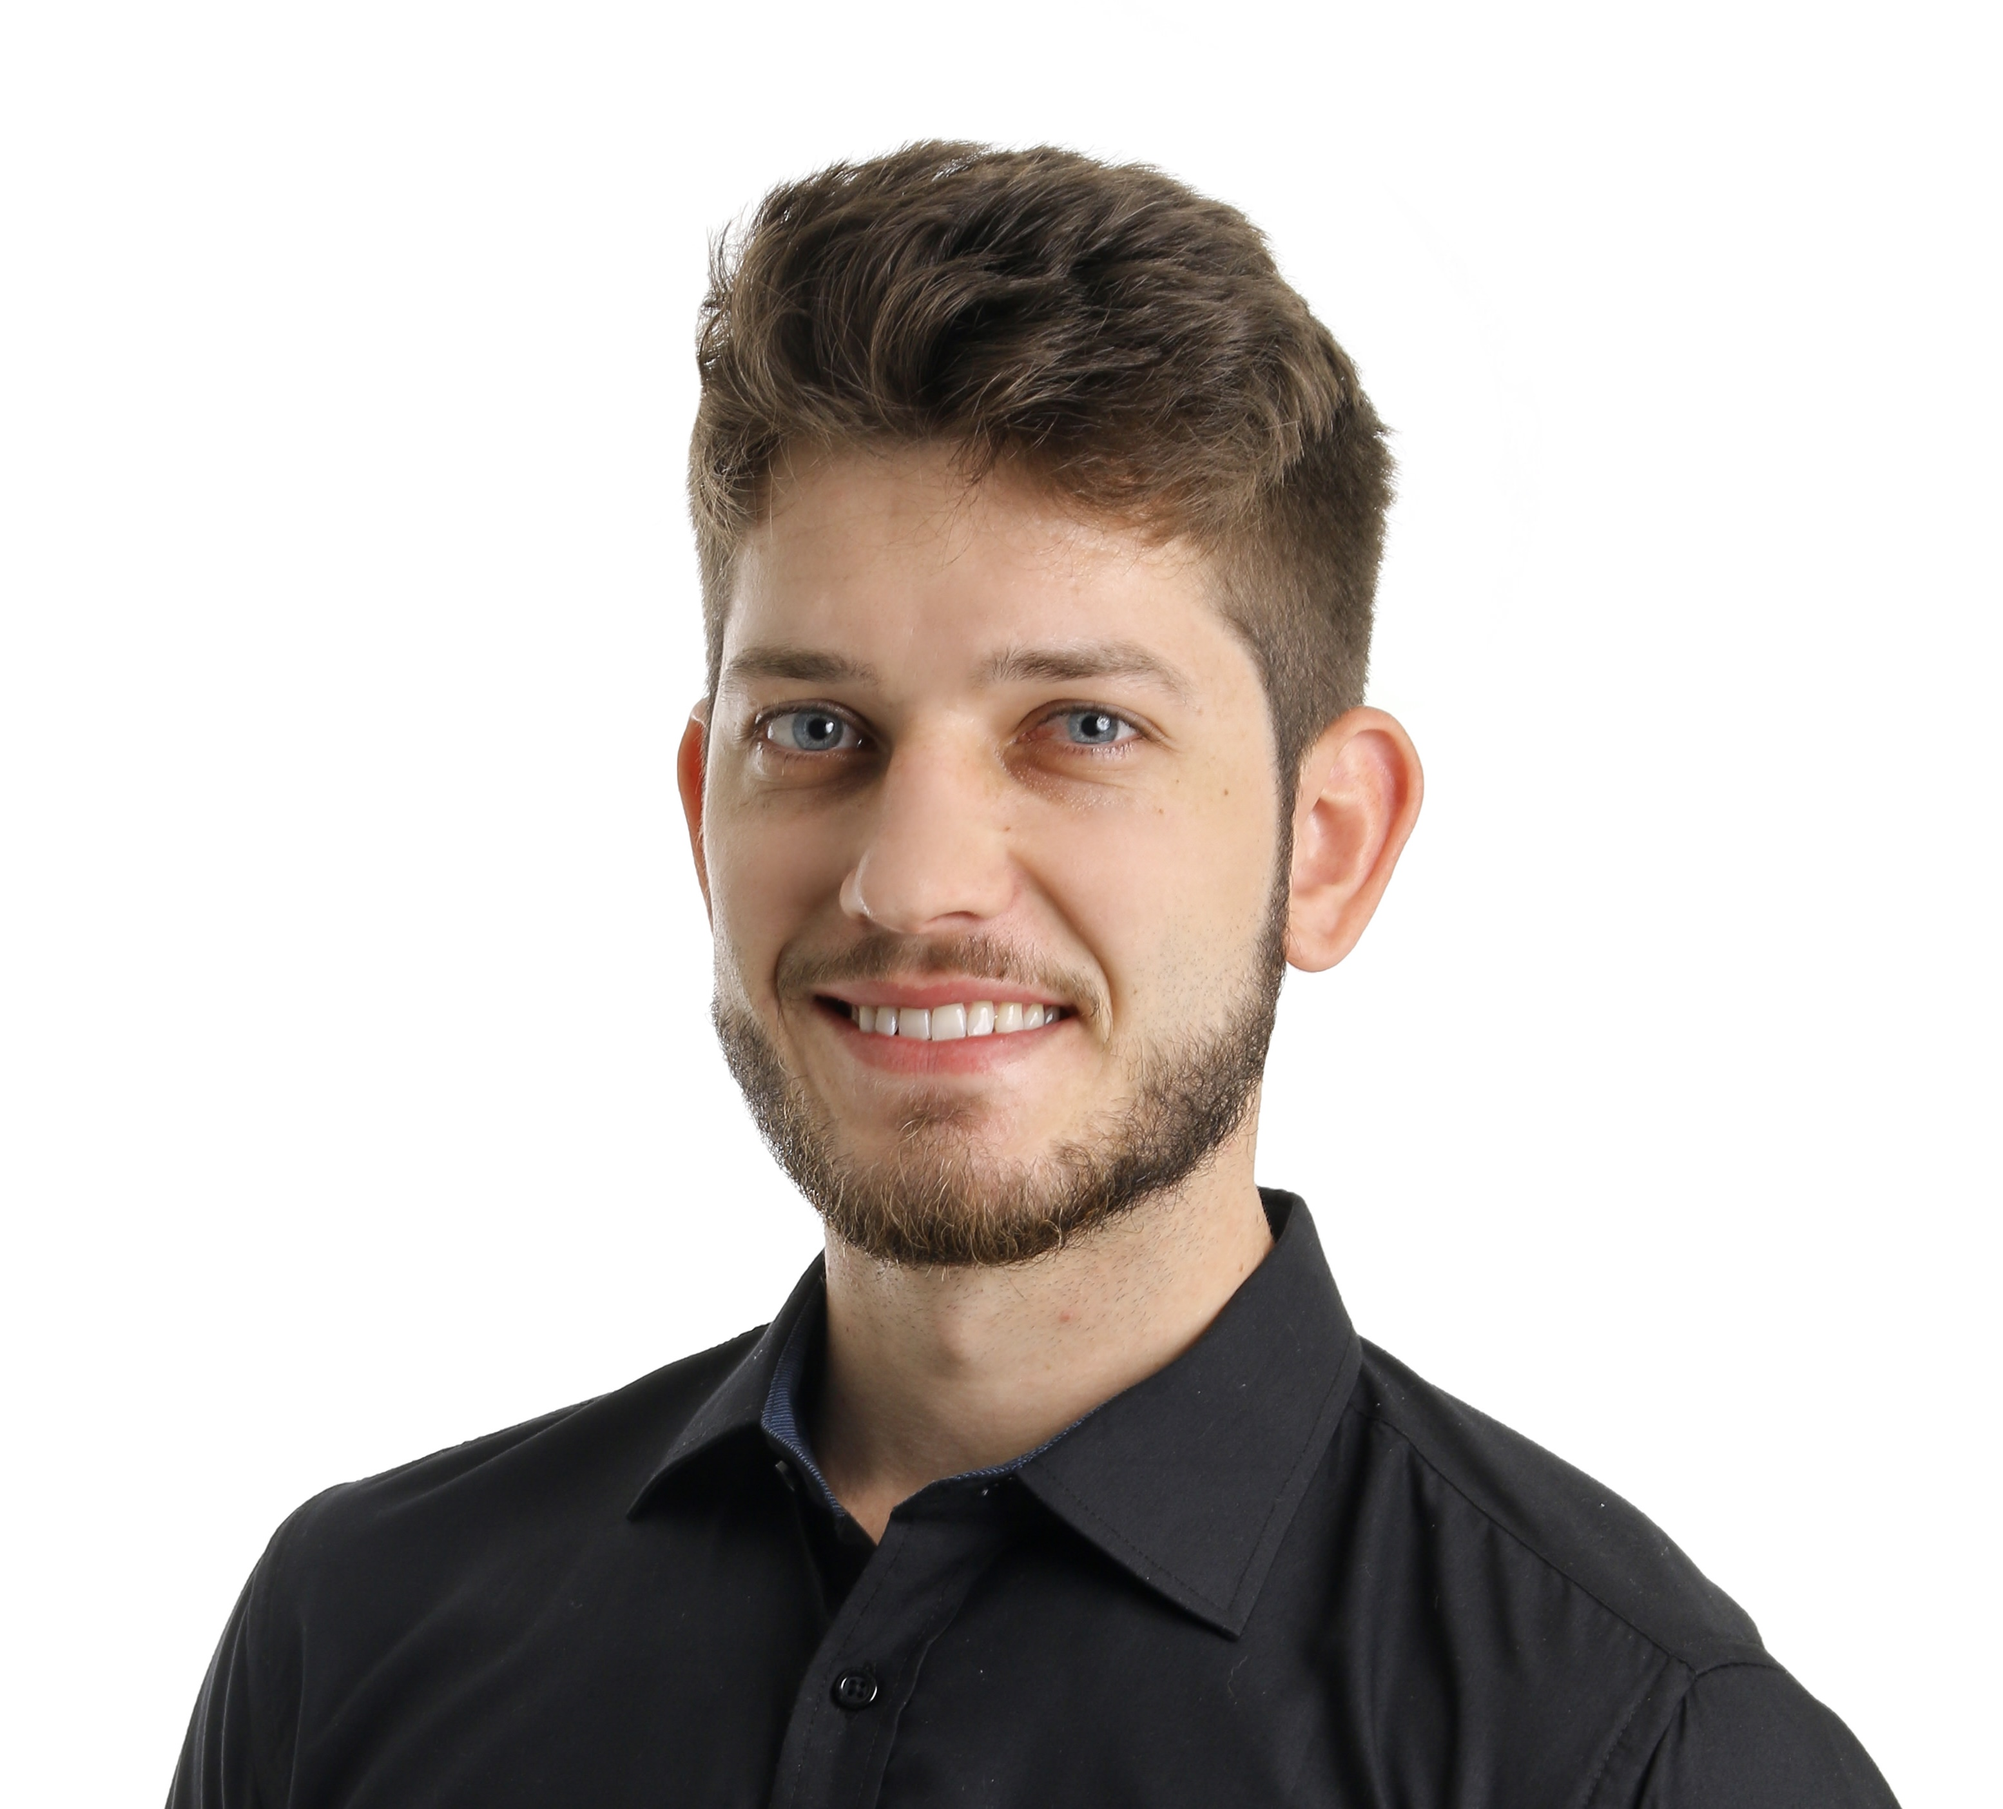
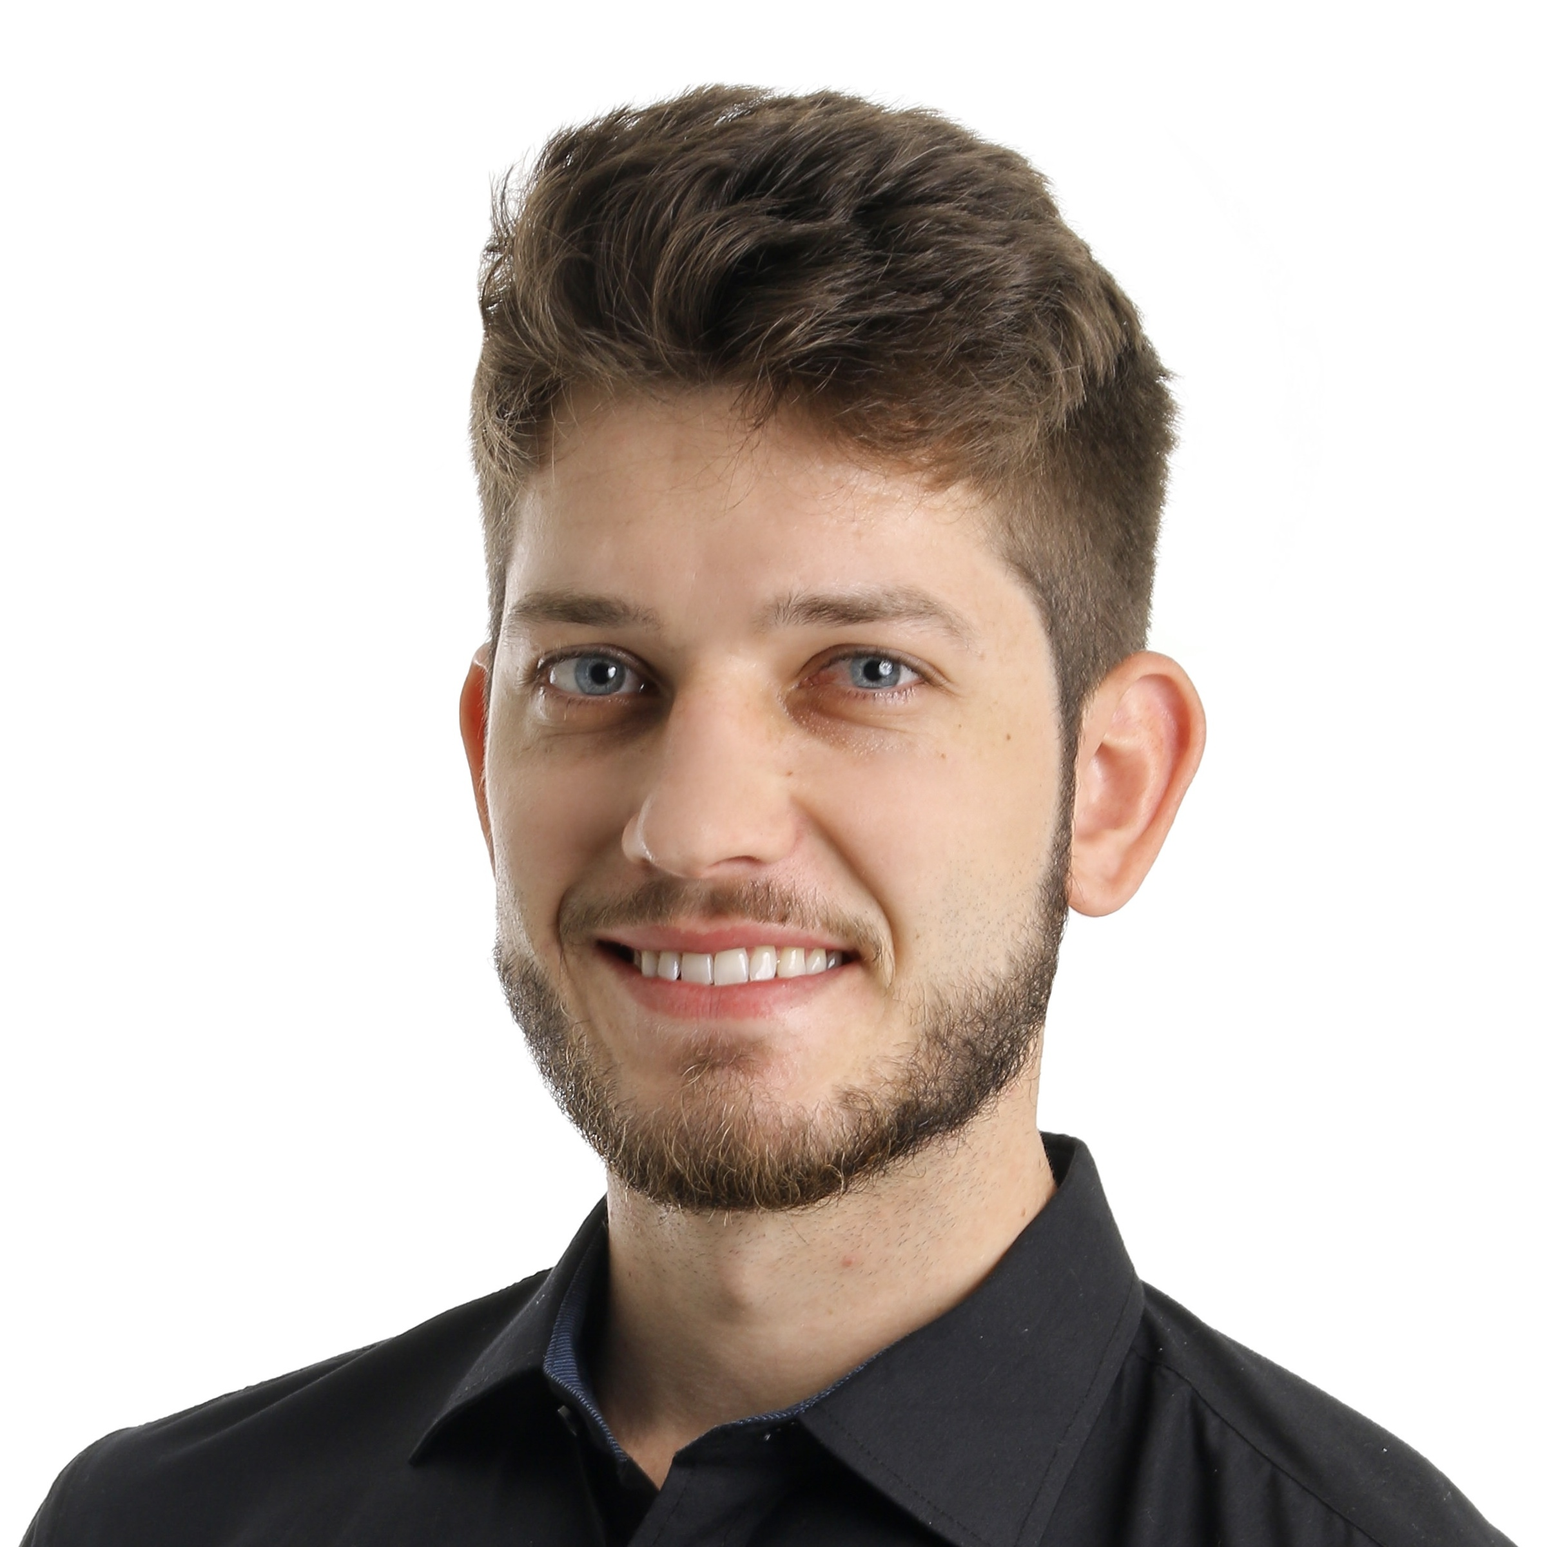
Changed image size and add about section to home

diff --git a/src/views/Home.vue b/src/views/Home.vue
@@ -5,6 +5,9 @@
 			<h1 id="welcome">{{ translate('homeWelcomeMessage1') }} <br> {{ translate('homeWelcomeMessage2') }}</h1>
 			<img src="/img/personal.jpg" alt="personal-img" id="personal-img">
 		</div>
+		<div id="about-div">
+			<h1>About</h1>
+		</div>
 	</div>
 
 </template>
@@ -36,7 +39,9 @@
 		display: flex;
 		justify-content: center;
 		align-items: center;
-		margin: 130px;
+		margin: auto;
+		margin-top: 150px;
+		margin-bottom: 300px;
 	}
 
 	#welcome {
@@ -45,10 +50,17 @@
 	}
 
 	#personal-img {
-		width: 380px;
+		width: 350px;
 		height: 350px;
 		border-radius: 50%;
 		border: 5px solid #262626;
+	}
+
+	#about-div {
+		display: flex;
+		justify-content: center;
+		align-items: center;
+		margin-bottom: 350px;
 	}
 
 </style>

diff --git a/src/languages/ea.js b/src/languages/ea.js
@@ -6,7 +6,7 @@ export default {
                 navbarProjects: 'Proyectos',
                 navbarLinks: 'Enlaces',
                 navbarContact: 'Contacto',
-                homeWelcomeMessage1: '¡Hola, bienvenidos',
+                homeWelcomeMessage1: '¡Hola, bienvenido',
                 homeWelcomeMessage2: ' a mi sitio web!',
                 footerMessage: '2023 Luis Fellipy Bett. Todos los Derechos Reservados.',
                 aboutMessage: 'SOBRE ESPANOL',
